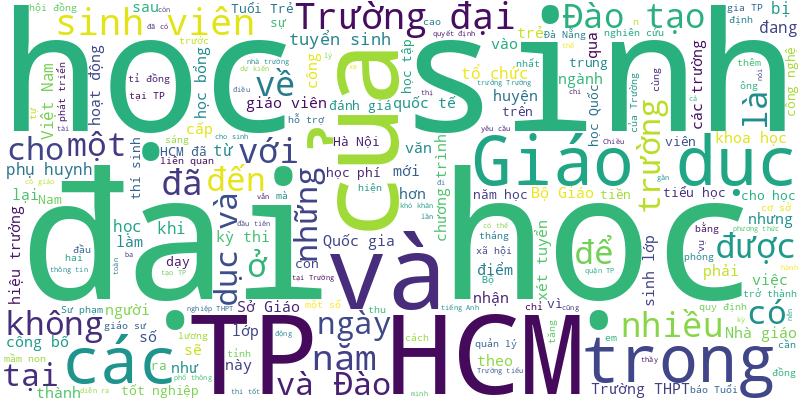
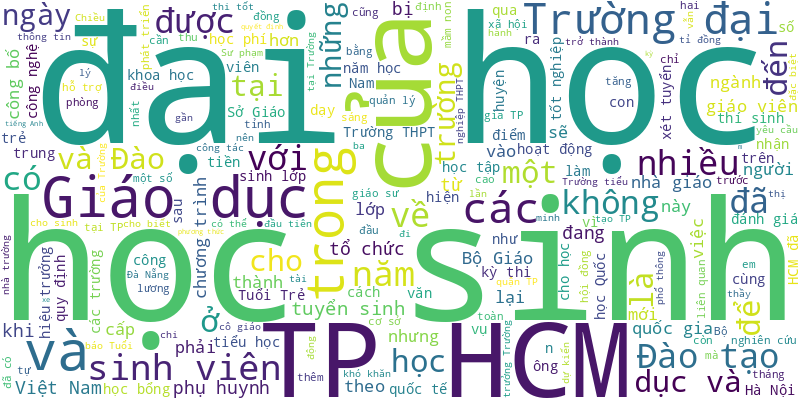
🍀 = 70%

diff --git a/README.md b/README.md
@@ -1,6 +1,24 @@
 # Tuoi Tre RSS 
 
 ## Giáo dục 
+- Hoàn thiện bản thân cùng LG Campus Ambassador 2024
+- Ngày 7-2, UBND TP.HCM có văn bản chỉ đạo về việc thực hiện dạy thêm, học thêm theo quy định của Bộ Giáo dục và Đào tạo.
+- Năm 2025, Trường đại học Ngân hàng TP.HCM xét tuyển 12 tổ hợp môn và mở thêm nhiều ngành học mới.
+- Dù mức phạt "rất gắt", nhưng trước nhiều cổng trường ở TP Buôn Ma Thuột vẫn tái diễn tình trạng xe máy chở ba, không đội mũ bảo hiểm.
+- Ngay sau Tết, thí sinh trên cả nước đăng ký xét học bổng đặc biệt tại Trường đại học Công nghệ TP.HCM (HUTECH) sẽ nhận lì xì hấp dẫn trị giá 25% học phí toàn khóa học.
+- Bộ trưởng Nguyễn Kim Sơn cho hay nếu giao cho ngành giáo dục quản lý viên chức tổng thể như quân đội quản lý sẽ làm tốt việc điều chuyển giáo viên trên cả nước.
+- Thủ tướng Chính phủ vừa có công điện gửi UBND các tỉnh, thành phố và Bộ Giáo dục và Đào tạo chỉ đạo công tác tuyển sinh THCS, THPT và quản lý dạy thêm học thêm ở cấp phổ thông.
+- Năm 2025, Đại học Quốc gia TP.HCM sẽ triển khai Chương trình giáo sư thỉnh giảng, với mục tiêu bổ nhiệm 100 giáo sư thỉnh giảng trong giai đoạn 2025-2030.
+- Trưởng Ban Công tác đại biểu Nguyễn Thanh Hải đề nghị bổ sung quy định dù phụ huynh tự nguyện cho con học thêm, nhà giáo cũng không được thu tiền.
+- Thông tư về dạy thêm, học thêm của Bộ GD-ĐT có hiệu lực từ 14-2-2025 đang tiếp tục gây nhiều ý kiến trái chiều.
+- Ông Nguyễn Đắc Vinh cho biết dự Luật Nhà giáo mới nhất chỉnh lý theo hướng bỏ quy định cụ thể về tăng 1 bậc lương với giáo viên khi xếp lương lần đầu.
+- Sau Tết, Bạc Liêu có khoảng 3.000 học sinh chưa trở lại trường. Lãnh đạo Sở Giáo dục và Đào tạo tỉnh Bạc Liêu nói gì?
+- Từ sau Tết Nguyên đán Ất Tỵ, 154 học sinh Trường tiểu học số 1 Quảng Phúc (thị xã Ba Đồn, tỉnh Quảng Bình) không đến trường học vì phụ huynh phản đối việc chuyển từ điểm trường lẻ về học tại điểm trường chính.
+- Ban đại diện Cộng đồng cựu sinh viên Phú Thọ - Bách khoa tiếp tục triển khai chương trình bảo lãnh vay và hỗ trợ lãi suất dành cho sinh viên đóng học phí.
+- Sáng 6-2, Sở Giáo dục và Đào tạo TP.HCM đã có văn bản về việc tuyển sinh lớp 6 năm học 2025-2026.
+- Dưới đây là các quy định mới có hiệu lực từ ngày 14-2 liên quan đến dạy thêm học thêm, tuyển sinh, kinh doanh bảo hiểm...
+- Sở Giáo dục và Đào tạo TP.HCM vừa có văn bản công bố thời gian thi tuyển sinh lớp 10 năm học 2025-2026 là ngày 6 và 7-6.
+- Đi học lại sau Tết không phải lúc nào cũng dễ dàng đối với phần đông học sinh. Do vậy, các trường học tại TP.HCM tùy vào lứa tuổi đã có những biện pháp khác nhau để kéo học sinh trở lại với việc học.
 - UBND tỉnh Lâm Đồng cho biết đã chỉ đạo hỏa tốc xử lý thưởng cho giáo viên theo nghị định 73 trước ngày 7-2.
 - Những ngày qua, Tuổi Trẻ đón nhận nhiều chia sẻ góc nhìn về tiền lì xì của trẻ. Trò chuyện về vấn đề này, thạc sĩ tâm lý Võ Hồng Tâm cho rằng tiền lì xì không chỉ là món quà ngày Tết, mà còn là cơ hội để dạy trẻ những bài học quý giá.
 - Các đợt thi đánh giá năng lực của Đại học Quốc gia Hà Nội năm 2025 sẽ diễn ra từ ngày 15-3 đến 18-5, thí sinh bắt đầu đăng ký ca thi từ ngày 23-2.
@@ -983,26 +1001,109 @@
 - Câu chuyện trường học không có quỹ lớp tạo hiệu ứng tốt, đa phần ý kiến cho rằng cần nhân rộng mô hình này ra các ngôi trường khác trong cả nước.
 - Sáng nay 7-10, Trường phổ thông đặc biệt Nguyễn Đình Chiểu (quận 10, TP.HCM) tổ chức chia sẻ chuyên đề về phòng ngừa xâm hại tình dục cho học sinh khiếm thị.
 - Cục Quản lý chất lượng - Bộ Giáo dục và Đào tạo cho biết việc công nhận văn bằng chương trình liên kết đào tạo nước ngoài đang gặp nhiều khó khăn.
-- UBND TP.HCM vừa ban hành bộ tiêu chuẩn công nhận trường học số.
-- Trong bốn năm trở lại đây, Đại học Quốc gia TP.HCM chưa khởi công thêm công trình nào và đã phải hoàn trả ngân sách nhà nước gần 2.000 tỉ đồng.
-- Bộ chứng chỉ PEIC là chuẩn năng lực tiếng Anh quốc tế bao gồm 4 kỹ năng (Nghe - Nói - Đọc - Viết) dành cho học sinh, sinh viên và người đi làm.
-- Nhiều người chán họp phụ huynh. Một phần vì chuyện tiền bạc, phần vì ban đại diện đại diện cha mẹ học sinh dường như không phải là đại diện cho phụ huynh lớp!
-- Đại học Quốc gia TP.HCM sẽ giảm bớt các phương thức tuyển sinh đại học năm 2025 xuống còn 3. Đồng thời khuyến khích các trường xây dựng phương thức xét tuyển kết hợp.
-- Kỷ nguyên trí tuệ mang lại nhiều cơ hội cho Việt Nam nhưng cũng cần phải thừa nhận những thách thức mà thời đại này đặt ra đối với xã hội.
-- Huyện ủy Hướng Hóa (Quảng Trị) nói không được bổ nhiệm lại nhiệm kỳ 3 vì sai quy định, nhưng ủy ban huyện vẫn ký bổ nhiệm lại.
-- Dự thảo thông tư sửa đổi, bổ sung quy chế tuyển sinh THCS và tuyển sinh THPT của Bộ GD-ĐT đang khiến dư luận xôn xao.
-- Hiệu trưởng Trường tiểu học Sơn Thành bị phụ huynh tố cáo, được chuyển công tác đến trường khác và tiếp tục làm hiệu trưởng. Những vấn đề phụ huynh tố cáo, thanh tra huyện Sơn Hà sẽ tiếp tục làm rõ.
-- Cứ vào giờ cao điểm, trước cổng một số trường học tại Đà Nẵng xảy ra tình trạng kẹt xe, giao thông lộn xộn. Nhiều phụ huynh, học sinh phải len lỏi giữa dòng xe đông đúc, tiềm ẩn nguy cơ tai nạn giao thông.
-- Dự án HCMUS Future Leaders của Trường đại học Khoa học tự nhiên (Đại học Quốc gia TP.HCM) vừa chính thức khởi động với sự tham gia 70 cựu sinh viên, chuyên gia xây dựng môn học về kỹ năng mềm cho sinh viên.
-- Tổng giá trị học bổng hơn 392 triệu đồng, trích từ nguồn quỹ Đồng hành sinh viên của trường.
-- Số lượng thí sinh đăng ký xét tuyển vào Trường đại học Y Dược TP.HCM tăng trong 3 năm liên tiếp, dù học phí của trường luôn tăng.
-- Không thể có trường học hạnh phúc, học trò ngoan nếu gia đình nhà trường bỏ ngỏ, thiếu chăm lo những giá trị đạo đức, văn hóa.
-- Sáng nay 5-10, báo Tuổi Trẻ và Trường đại học Hoa Sen đã ký kết hợp tác đào tạo. Việc ký kết thỏa thuận hợp tác đào tạo diễn ra tại lễ khai giảng năm học 2024 - 2025 của Trường đại học Hoa Sen.
-- Tận dụng nguồn nguyên liệu dồi dào trong tự nhiên, nhóm sinh viên Trường đại học Trà Vinh đã nghiên cứu làm ra băng gạc sinh học từ lục bình.
-- Khai giảng năm học 2024-2025, Trường đại học Cửu Long nhận bằng khen của Thủ tướng, dành hơn 9 tỉ đồng cấp học bổng toàn phần, khen thưởng cho tân sinh viên.
-- Ngày 4-10, diễn đàn “Giáo dục về năng lượng tái tạo và biến đổi khí hậu” diễn ra tại Trường Victoria School, nhằm mang đến nhiều góc nhìn trong việc giáo dục thế hệ trẻ các vấn đề khí hậu, môi trường.
 ![Edu](Edu.png)
 ## Thời Sự 
+- Dự báo từ khoảng cuối tháng 2, hiện tượng nồm ẩm sẽ xuất hiện ở miền Bắc và kéo dài tới tháng 4.
+- Hiện khu xử lý rác Đa Phước bị quá tải nên chỉ trục trặc nhỏ cũng khiến việc tiếp nhận rác bị rối loạn.
+- Hệ thống Bệnh viện Đa khoa Tâm Anh đưa vào sử dụng máy chụp CT Somatom Force VB30 tích hợp AI, được đánh giá là cuộc cách mạng mới trong chẩn đoán, phát hiện rất sớm và hỗ trợ tốt điều trị nhiều bệnh lý nguy hiểm.
+- Liên quan đến vụ xe khách bị lật khiến 3 người chết, những hành khách trên xe vẫn chưa hết hãi hùng nhớ lại khoảnh khắc xảy ra vụ tai nạn.
+- Thêm 18,8km cao tốc Bến Lức - Long Thành sắp thông xe, rút ngắn thời gian đi từ cửa ngõ phía tây về khu Nam và trung tâm TP.HCM.
+- Xe tải đang chạy trên cao tốc Phan Thiết - Dầu Giây thì tông vào đuôi xe tải bị nổ lốp đậu sát dải phân cách.
+- Lúc 1h sáng 8-2, trên quốc lộ 1 qua xã Xuân Thịnh, thị xã Sông Cầu (tỉnh Phú Yên) xảy ra vụ lật xe khách khiến 3 người chết tại chỗ, nhiều người bị thương.
+- Tin tức đáng chú ý: Đề xuất chế độ nghỉ hưu ở tuổi cao hơn đối với nhà giáo; Cổ phiếu của đại gia thép SMC có khả năng bị hủy niêm yết; TP.HCM lên phương án chống cháy rừng mùa khô...
+- Hôm nay 8-2, do ảnh hưởng không khí lạnh nên thời tiết miền Trung mưa to, miền Nam nắng nhưng nhiều mây.
+- Ngoài việc có thể đọ kết quả kinh doanh của Vietnam Airlines với Vietjet Air, báo cáo tài chính quý 4-2024 vừa công bố của hai hãng hàng không hàng đầu Việt Nam cũng tiết lộ thu nhập lãnh đạo hai bên.
+- Lễ hội hoa đào xứ Lạng 2025 - lễ hội hoa đào duy nhất trên cả nước - vừa khai mạc tại tỉnh Lạng Sơn. Nhiều du khách, bạn trẻ tranh thủ tận hưởng tiết trời lạnh để diện những bộ cánh ấm áp và check-in cùng hoa đào.
+- Hai phó trưởng Ban Dân vận Tỉnh ủy Bình Định, ông Nguyễn Mạnh Hùng và Đặng Hoài Tân, vừa nộp đơn xin nghỉ hưu trước tuổi.
+- Đó là nhấn mạnh của Phó thủ tướng Hồ Đức Phớc khi chủ trì cuộc họp sắp xếp cơ cấu tổ chức, bộ máy của Bộ Tài chính và Bộ Kế hoạch và Đầu tư.
+- Ngày 7-2, Tổng Bí thư Tô Lâm dự hội nghị bàn giao công tác của Chủ nhiệm Ủy ban Kiểm tra Trung ương khóa XIII.
+- Chiều 7-2, Ban Thường vụ Tỉnh ủy Bình Định tổ chức hội nghị công bố các quyết định của Tỉnh ủy về thành lập Đảng bộ các cơ quan Đảng tỉnh và Đảng bộ UBND tỉnh; chấm dứt hoạt động các đảng đoàn, ban cán sự đảng, một số ban chỉ đạo của tỉnh.
+- Đồng Nai vừa cấp giấy chứng nhận đầu tư cho nhiều doanh nghiệp FDI đầu tư mới ở các lĩnh vực y tế, điện, mỹ phẩm.
+- 5 trưởng phòng nghiệp vụ và 1 phó Phòng tham mưu Công an tỉnh Hải Dương nghỉ hưu trước tuổi để tạo điều kiện thuận lợi cho công tác tổ chức cán bộ, góp phần triển khai hiệu quả việc sắp xếp tinh gọn bộ máy.
+- Phó bí thư Tỉnh ủy, Chủ tịch UBND tỉnh Lào Cai Trịnh Xuân Trường được bầu giữ chức Bí thư Tỉnh ủy Lào Cai, nhiệm kỳ 2020-2025.
+- Đề cập dự án Bệnh viện Ung bướu Cần Thơ xây mấy năm không xong, Chủ tịch Quốc hội đề nghị Bộ Kế hoạch và Đầu tư tập trung cao để giải quyết.
+- Nhiều tài xế phản ánh về việc khe co giãn trên cao tốc quốc lộ 45 - Nghi Sơn đoạn qua huyện Nông Cống, tỉnh Thanh Hóa bị bật, bung lên khỏi mặt đường.
+- Theo nghị quyết vừa được Ủy ban Thường vụ Quốc hội thông qua, tổ chức bộ máy của Viện Kiểm sát nhân dân tối cao gồm 24 đơn vị.
+- Loạt dự án trên bán đảo Sơn Trà (Đà Nẵng) nằm im suốt nhiều năm sau kết luận thanh tra. Việc xử lý các dự án này như thế nào là vấn đề mà rất nhiều người quan tâm?
+- Liên tiếp xảy ra các vụ tai nạn đường sắt nghiêm trọng không chỉ gây thương vong đáng tiếc, mà còn đặt ra nhiều câu hỏi về an toàn đường sắt.
+- Được kỳ vọng sẽ vực dậy vùng đất 'khô - khó - khổ' phía Bắc tỉnh Bình Thuận, nhưng hơn 10 năm qua Khu công nghiệp Tuy Phong vẫn chưa xong hạ tầng.
+- Khánh Hòa công bố quyết định kết thúc hoạt động hàng loạt cơ quan đảng trực thuộc và thành lập 2 đảng bộ mới.
+- Nhân viên pha chế của một nhà hàng ở Hội An, Quảng Nam đã dùng cồn y tế pha với nước lọc, vỏ chanh, đường tạo thành rượu giao cho hai du khách nước ngoài uống và bị ngộ độc methanol tử vong.
+- Sau gần 5 tháng tạm ngưng, siêu tàu cao tốc tuyến Vũng Tàu - Côn Đảo đã hoạt động trở lại.
+- Thành ủy Đà Nẵng vừa công bố các quyết định về nhân sự khi thành lập hai Đảng bộ mới và thông báo về chủ trương đổi vị trí một số nhân sự chủ chốt.
+- Sở Y tế TP.HCM khuyến cáo người dân không nên hoang mang, lo lắng trước dịch bệnh cúm mùa, nhưng không lơ là, chủ quan.
+- Bộ Giao thông vận tải điều chỉnh dự án cao tốc Đà Nẵng - Quảng Ngãi theo thẩm quyền và trình Thủ tướng giao Đà Nẵng đầu tư nút giao Túy Loan.
+- Phấn đấu đến dịp 30-4 sẽ đưa vào khai thác thêm tổng cộng 32,9km đoạn phía đông và tây cao tốc Bến Lức - Long Thành.
+- Đối với xe vi phạm giao thông mà người cầm lái hoặc chủ xe chưa giải quyết, nộp phạt thì sẽ không được đăng kiểm, đăng ký.
+- Ngày 7-2, Bộ đội biên phòng tỉnh Tây Ninh cho biết vừa phối hợp với Công an tỉnh hoàn tất tiếp nhận, xác minh thông tin 177 người Việt Nam được trao trả từ Campuchia. Nhóm người này liên quan đến  lao động và cư trú bất hợp pháp.
+- Liên quan vấn đề tội phạm trên không gian mạng, thượng tướng Trần Quốc Tỏ nhấn mạnh đây là vấn đề nan giải, mang tính chất toàn cầu.
+- Ra đồng cùng mẹ, hai chị em uống lọ dung dịch thuốc diệt chuột màu đỏ, nhầm tưởng là nước ngọt. Sau sự cố, người em trai 4 tuổi tử vong.
+- Bà Nguyễn Thị Nguyệt Hòa (mưu sinh bằng việc bán vé số dạo) chia sẻ: 'Vừa bán hết 200 tờ, tôi đi mua cá nướng về cúng vía Thần Tài’.
+- Khi thu mua gỗ keo và bán lại cho công ty, một người ở Quảng Nam đã trốn thuế hơn 20 tỉ đồng.
+- Tại Vườn quốc gia Núi Chúa (Ninh Thuận), các nhà nghiên cứu đã phát hiện nhiều loài động vật cực quý hiếm như gà tiền mặt đỏ, gà lôi hông tía...
+- Ngày 7-2, lãnh đạo Sở Giao thông vận tải tỉnh Kiên Giang cho biết đơn vị đang khẩn trương xây dựng kế hoạch để thực hiện dự án đường trục chính ven biển vào trung tâm TP Hà Tiên hơn 1.400 tỉ đồng.
+- Xe tải tự tông vào dải phân cách, phụ xe chết tại chỗ, quốc lộ 1 ùn tắc nghiêm trọng tại huyện Cam Lâm (Khánh Hòa).
+- Bộ trưởng Nguyễn Kim Sơn cho hay nếu giao cho ngành giáo dục quản lý viên chức tổng thể như quân đội quản lý sẽ làm tốt việc điều chuyển giáo viên trên cả nước.
+- Tai nạn giữa xe đầu kéo và xe máy trên đường ray ở Đồng Nai khiến một người chết, tàu hỏa Bắc - Nam bị gián đoạn gần một giờ.
+- Một bệnh nhân tiểu đường bị ngộ độc sau khi uống thuốc có chứa chất cấm phenformin.
+- Tài xế xe đầu kéo không giảm tốc độ dù đường cong cua và trơn trượt, khi phanh gấp đã làm thùng xe bị văng, rê sang phần đường của xe ưu tiên.
+- Năm 2025, Đại học Quốc gia TP.HCM sẽ triển khai Chương trình giáo sư thỉnh giảng, với mục tiêu bổ nhiệm 100 giáo sư thỉnh giảng trong giai đoạn 2025-2030.
+- Giám đốc Sở Nông nghiệp và Phát triển nông thôn tỉnh Kiên Giang ký thông báo về việc vận hành cống, âu thuyền Vàm Bà Lịch để chống xâm nhập mặn tháng 2.
+- Ban tổ chức lễ hội kỷ niệm 289 năm thành lập Tao đàn Chiêu Anh Các (1736 - 2025) đã tổ chức dâng hương đền thờ họ Mạc và làm lễ tế trời đất tại nền Sơn Xuyên ở TP Hà Tiên để cầu quốc thái dân an, mưa thuận gió hòa, nhà nhà ấm no.
+- Sáng 7-2, không khí lạnh mạnh tăng cường đang bao phủ các tỉnh miền Bắc. Trời mưa nhỏ kèm theo gió rét. Nhiệt độ nhiều nơi hạ xuống dưới 15 độ C và tiếp tục hạ thấp hơn trong ngày và đêm nay.
+- Trưởng Ban Công tác đại biểu Nguyễn Thanh Hải đề nghị bổ sung quy định dù phụ huynh tự nguyện cho con học thêm, nhà giáo cũng không được thu tiền.
+- Vụ cháy đã làm hư hỏng một phần nhà kho, nhiều đồ đạc trong nhà như tivi, quạt gió, một xe máy và nhiều máy móc khác bị thiệt hại nặng.
+- Ông Nguyễn Đức Dũng và Lê Văn Dũng được chỉ định lần lượt giữ chức vụ bí thư Đảng ủy các cơ quan Đảng tỉnh và bí thư Đảng ủy UBND tỉnh Quảng Nam.
+- Ông Lê Trung Chinh làm bí thư Đảng bộ UBND TP Đà Nẵng. Ông Nguyễn Đình Vĩnh làm bí thư Đảng bộ các cơ quan Đảng TP Đà Nẵng. Đây là 2 Đảng bộ mới vừa được thành lập ở Đà Nẵng.
+- Ông Nguyễn Đắc Vinh cho biết dự Luật Nhà giáo mới nhất chỉnh lý theo hướng bỏ quy định cụ thể về tăng 1 bậc lương với giáo viên khi xếp lương lần đầu.
+- Huyện Vĩnh Linh (Quảng Trị) cam kết cấp mặt bằng sạch cho doanh nghiệp để xây dựng lại nhà máy nhưng 4 tháng chưa thực hiện.
+- Khu vực Tây Nguyên sẽ được khai phá bởi các tuyến cao tốc cùng loạt dự án kết nối vùng Đông Nam Bộ giúp rút ngắn thời gian đi lại, mở rộng cửa giao thương.
+- Ông Nguyễn Anh Tuấn - tỉnh ủy viên, trưởng Ban Dân vận Tỉnh ủy Khánh Hòa - xin thôi công tác, nghỉ hưu trước tuổi quy định.
+- Muốn làm giàu thì mở rộng giao thương, thu hút đầu tư bằng cơ sở hạ tầng giao thông thuận lợi trong đi lại, luân chuyển hàng hóa.
+- Một số tin tức đáng chú ý: Đề xuất tăng hỗ trợ cho người tham gia bảo hiểm xã hội; Hàng loạt quỹ cổ phiếu rút bớt tiền mặt; 58.300 doanh nghiệp rút khỏi thị trường đầu năm; Không tổ chức lễ hội tràn lan gây tốn kém, lãng phí thời gian, tiền bạc...
+- Khi các đoạn cao tốc Phan Thiết - Dầu Giây, Vĩnh Hảo - Phan Thiết đưa vào khai thác giữa năm 2023, tài xế từ TP.HCM đến với Đà Lạt có thêm nhiều lựa chọn cho chuyến hành trình của mình.
+- Không khí lạnh rất mạnh từ hôm nay sẽ ảnh hưởng và chi phối Bắc Bộ và Trung Bộ. Nam Bộ thời tiết chưa có quá nhiều biến động.
+- Phát hiện một sản phụ vỡ ối trên xe khách, CSGT Đắk Lắk dùng xe chuyên dụng chở người này đến bệnh viện an toàn.
+- Xe khách chạy nhanh lấn sang làn cao tốc ngược chiều để vượt ô tô khác khiến xe đi chiều ngược lại phải đánh lái gấp để tránh.
+- Ông Nguyễn Tấn Đức, phó chủ tịch HĐND tỉnh, và hai giám đốc sở ở Quảng Ngãi có đơn xin nghỉ hưu trước tuổi và được chấp thuận.
+- Thủ tướng đã bấm nút khai trương thí điểm Hệ thống điều phối dữ liệu ngành y tế nhằm cải thiện chất lượng chăm sóc sức khỏe, nghiên cứu khoa học.
+- Sau Tết, Bạc Liêu có khoảng 3.000 học sinh chưa trở lại trường. Lãnh đạo Sở Giáo dục và Đào tạo tỉnh Bạc Liêu nói gì?
+- Ban Quản lý dự án đầu tư xây dựng các công trình giao thông vừa trình UBND TP.HCM đề xuất dự án Cải thiện môi trường nước TP.HCM giai đoạn 3 lưu vực Tàu Hủ - Bến Nghé - Đôi - Tẻ.
+- Theo nghị quyết mới được Ủy ban Thường vụ Quốc hội thông qua, tổng số lượng thẩm phán của tòa án nhân dân các cấp là 7.004 người.
+- Chủ tịch UBND TP.HCM Phan Văn Mãi cảm ơn các cơ quan báo chí Trung ương và địa phương, đặc biệt ông cảm ơn đội ngũ phóng viên đã đồng hành cùng TP.HCM trong những năm qua.
+- 11 tác phẩm xuất sắc đã đạt giải thưởng báo chí viết về chuyển đổi số TP.HCM lần 1 - 2024 do Sở Thông tin - Truyền thông và Hội Nhà báo TP.HCM tổ chức.
+- Chiều 6-2, Chủ tịch UBND TP.HCM Phan Văn Mãi, đại diện cơ quan ban ngành, các nhà báo đã đến thăm và làm việc tại tòa soạn báo Tuổi Trẻ nhân dịp đầu năm mới.
+- Theo kết luận về kiểm tra, Sở Tài nguyên và Môi trường Khánh Hòa, Chi cục Quản lý đất đai tỉnh đã thiếu trách nhiệm quản lý, kiểm tra việc sử dụng đất của Liên đoàn Thương mại và Công nghiệp Việt Nam (VCCI) tại Khánh Hòa.
+- Lãnh đạo Công an tỉnh Đắk Lắk cho biết báo cáo ban đầu vụ cháy xưởng điện lạnh cạnh quốc lộ 14 có thể do chập điện, rất may không có thiệt hại về người.
+- Từ kháng nghị của Viện Kiểm sát nhân dân TP.HCM về việc Cục Thi hành án dân sự TP.HCM thu giữ hơn 78 tỉ đồng trái bản án, quy định trong vụ án Công ty Cho thuê tài chính II, cục này đã báo cáo xin ý kiến cơ quan cấp trên.
+- Xưởng điện lạnh trên đường vành đai phía tây TP Buôn Ma Thuột (quốc lộ 14) cháy, khiến hàng ngàn mét vuông các nhà xưởng bên cạnh bị cháy lan.
+- Theo ông Hoàng Thanh Tùng, dự kiến sau khi thực hiện sắp xếp bộ máy, số lượng các cơ quan của Quốc hội gồm Hội đồng Dân tộc và 7 ủy ban.
+- Cần Thơ và Bạc Liêu cùng công bố thành lập Ban Tuyên giáo và Dân vận. Đồng thời các địa phương này cũng công bố thành lập mới nhiều tổ chức Đảng.
+- Công an tỉnh Kiên Giang phối hợp với lực lượng biên phòng tiếp nhận 24 công dân Việt Nam bị mắc bẫy 'việc nhẹ, lương cao' do phía Campuchia trao trả về nước, qua đường cửa khẩu quốc tế Hà Tiên.
+- Thông tin do thượng tá Lê Văn Hải, phó Phòng cảnh sát giao thông PC08 Công an TP.HCM, nêu tại họp báo định kỳ về tình hình kinh tế - xã hội, diễn ra chiều 6-2 tại báo Tuổi Trẻ.
+- Chiều 6-2, trung tá Phan Đình Điểm - đội trưởng Đội cảnh sát giao thông đường bộ tuyến quốc lộ 19, Công an tỉnh Bình Định - cho biết một xe đầu kéo đang đổ đèo An Khê thì đột nhiên bốc cháy giữa đường.
+- Trong vòng 3 ngày (ngày 3 đến 5-2), lực lượng Bộ đội biên phòng Kiên Giang đã phát hiện 3 tàu cá chở tổng cộng khoảng 64.000 lít dầu DO không rõ nguồn gốc trên vùng biển tây nam Tổ quốc.
+- Chập điện đã làm cháy và nổ bình gas của căn nhà người dân ở huyện Thới Bình, tỉnh Cà Mau. Vụ cháy đã thiêu rụi hơn 300 triệu đồng tiền mặt, cùng căn nhà và nhiều vật dụng của đôi vợ chồng làm nghề thu mua tôm.
+- Nêu rõ ý nghĩa quan trọng của việc đạt mục tiêu tăng trưởng 8% trở lên trong năm 2025, Thủ tướng Phạm Minh Chính nhấn mạnh phải ưu tiên tập trung tháo gỡ các điểm nghẽn.
+- Từ sau Tết Nguyên đán Ất Tỵ, 154 học sinh Trường tiểu học số 1 Quảng Phúc (thị xã Ba Đồn, tỉnh Quảng Bình) không đến trường học vì phụ huynh phản đối việc chuyển từ điểm trường lẻ về học tại điểm trường chính.
+- Một người đàn ông đăng thông tin thất thiệt "sắp có bạo loạn" Cư Kuin (Đắk Lắk) đã bị xử phạt hành chính 7,5 triệu đồng.
+- Sáng 6-2, Chủ tịch HĐND TP Hà Nội Nguyễn Ngọc Tuấn đã thăm, chúc Tết và động viên cán bộ, công nhân tại công trường thi công Dự án đầu tư xây dựng đường vành đai 4 - vùng thủ đô Hà Nội tại huyện Thường Tín.
+- Chiều 5-2, đoàn kiểm tra liên ngành do UBND TP Nha Trang (Khánh Hòa) thành lập đã kiểm tra quán ăn Aroma Beach (đường Nguyễn Thiện Thuật, phường Tân Tiến, TP Nha Trang) sau khi có thông tin tố quán này "chặt chém" du khách.
+- So với cùng kỳ năm 2024, số vụ tai nạn trong 1 tháng qua giảm 26,29%, giảm 1,72% số người chết và giảm 37,71% nạn nhân bị thương.
+- Dự báo mùa khô 2025 nắng nóng kéo dài, hanh khô. Qua khảo sát thực tế và ghi nhận có hơn 40.000ha rừng có nguy cơ cháy cao nên Kiên Giang chủ động nhiều giải pháp ứng phó phòng cháy, bảo vệ rừng.
+- Thanh tra Sở Y tế TP.HCM vừa công bố quyết định xử phạt, trong đó có hai cơ sở tư vấn lựa chọn giới tính thai nhi do báo Tuổi Trẻ phản ánh trước đó.
+- Trước việc đất trống thuộc sở hữu nhà nước bị chiếm dụng, TP Đà Nẵng đã yêu cầu rà soát, thu hồi và bàn giao về Trung tâm Phát triển quỹ đất Đà Nẵng để lên kế hoạch khai thác.
+- Tòa án đã bác nhiều đơn khiếu nại xin giảm thời gian cai nghiện bắt buộc.
+- Trưởng Ban Tuyên giáo Tỉnh ủy Quảng Ngãi xin nghỉ hưu trước tuổi để tạo điều kiện thuận lợi nhất cho việc sắp xếp bộ máy, nhân sự của tỉnh.
+- Chuyển khoản liên tục 7 lần, từ số tiền đặt phòng ban đầu hơn 6,5 triệu đồng, chị H. đã bị lừa hơn 1 tỉ đồng khi đặt phòng qua fanpage tích xanh.
+- Đảng ủy Chính phủ đề nghị Đảng ủy Quốc hội chỉ đạo bổ sung một số nội dung quan trọng, cấp bách vào chương trình kỳ họp bất thường thứ 9 của Quốc hội.
+- Cục Đầu tư nước ngoài cho biết tổng vốn đăng ký đầu tư nước ngoài (FDI) tháng 1 năm nay tăng mạnh, trong đó Bắc Ninh dẫn đầu cả nước về thu hút đầu tư FDI, với số vốn đăng ký đạt gần 1,4 tỉ USD.
+- Chủ tịch UBND TP.HCM Phan Văn Mãi đã kêu gọi các nhà đầu tư mạnh dạn đầu tư vào thành phố Thủ Đức, giúp địa phương trở thành cực tăng trưởng mới, trung tâm tài chính quốc tế.
+- Sáng 6-2 (mùng 9 tháng giêng), Chủ tịch nước Lương Cường đã chủ trì lễ dâng hương khai xuân Ất Tỵ 2025 tại Điện Kính Thiên - khu di tích Hoàng thành Thăng Long, Hà Nội.
+- Chuyên gia cho rằng mức lương hưu bình quân ở nước ta không hề thấp và cần có giải pháp để duy trì quỹ hưu trí lâu dài.
+- Ban Cán sự Đảng UBND TP Hà Nội đã có tờ trình số 17 gửi Thường trực Thành ủy Hà Nội về việc xin chủ trương điều chỉnh phương án sắp xếp tổ chức bộ máy các sở thuộc khối chính quyền TP.
+- Trả lời về việc xây dựng đường chữ U "khó hiểu" ở TP Gia Nghĩa, lãnh đạo Sở Giao thông vận tải tỉnh Đắk Nông nói phải bám sát quy hoạch đô thị thời kỳ đó.
+- Hôm nay (6-2), Hội nghị công bố quy hoạch chung TP Thủ Đức đến năm 2040 và xúc tiến mời gọi đầu tư sẽ diễn ra.
 - Nhiều trường hợp vi phạm giao thông cố tình giấu giấy phép lái xe để né tránh việc trừ điểm hoặc tước bằng. Cảnh sát giao thông Hà Nội cho biết đây là suy nghĩ sai lầm khiến người vi phạm có thể bị phạt nặng hơn.
 - Ủy ban Kiểm tra Tỉnh ủy Khánh Hòa vừa kết luận kiểm tra dấu hiệu vi phạm với 5 cán bộ, đảng viên liên quan việc thu hồi đất dự án ở TP Nha Trang.
 - Dù tình hình đi lại ở cửa ngõ phía Tây TP.HCM và đường về miền Tây đông đúc dịp Tết Ất Tỵ 2025, nhưng ùn tắc đã giảm hơn so với các năm trước.
@@ -1902,109 +2003,12 @@
 - Tại phiên họp của Ủy ban Pháp luật đã thẩm tra tờ trình về thành lập các phường thuộc thị xã Phú Mỹ và thành lập TP Phú Mỹ.
 - UBND tỉnh Quảng Nam ra quyết định xử phạt vi phạm hành chính với Công ty TNHH xây dựng và xây lắp HTK (trụ sở tại quận Liên Chiểu, Đà Nẵng).
 - Phó giám đốc Ban quản lý các dự án đầu tư xây dựng tỉnh Đắk Nông bị cách mọi chức vụ trong Đảng, cho thôi việc vì sử dụng bằng giả.
-- Thực hiện lộ trình chuyển đổi từ xe buýt chạy dầu diesel sang xe buýt xanh, Hà Nội sẽ khai trương 3 tuyến buýt điện vào ngày 17-1.
-- Vào dịp cao điểm, mỗi ngày sẽ có khoảng 16 đoàn tàu xuất phát từ ga Sài Gòn, chở khoảng 6.000 hành khách về quê ăn Tết.
-- Đó là quan điểm của Bộ Kế hoạch và Đầu tư trong công văn góp ý đề án nghiên cứu khả năng hình thành cảng hàng không Gia Bình.
-- Phó chủ tịch UBND thị xã An Nhơn (Bình Định) cho biết công an đang xác minh vụ 310 chậu hoa cúc Tết của người dân bị héo úa, chết bất thường.
-- Công an TP Thủy Nguyên (Hải Phòng) đang điều tra tin báo về cháu bé bị một phụ nữ đưa đi khỏi trường mầm non gây xôn xao dư luận.
-- Chiều 14-1, lễ đón chính thức Thủ tướng Nga Mikhail Vladimirovich Mishustin đã diễn ra tại Phủ Chủ tịch.
-- Các phóng viên luôn là những người đến sớm nhất và kết thúc công việc muộn nhất, theo Phó thủ tướng, Bộ trưởng Bộ Ngoại giao Bùi Thanh Sơn.
-- Thủ tướng nhận định như vậy tại Hội nghị lần thứ 5 Hội đồng điều phối vùng Đồng bằng sông Hồng và công bố Quy hoạch thủ đô Hà Nội.
-- Ông Nguyễn Mạnh Hùng, ủy viên Ủy ban Kiểm tra Trung ương, giữ chức phó bí thư Tỉnh ủy Thái Bình.
-- Sau 6 tháng thi công, 250m kênh Hàng Bàng đoạn qua quận 5 (TP.HCM) đang hoàn tất những công đoạn cuối để khánh thành vào ngày 17-1.
-- Từ một cậu bé sinh ra trong gia đình nghèo khó, mẹ phải bán trâu để mua giày, cầu thủ Phạm Xuân Mạnh vươn lên trở thành ngôi sao sáng.
-- Hỗ trợ cho các xe quá tải tiếp tục lưu thông vận chuyển hàng hóa theo đề xuất của công ty, không được chạy vào các khung giờ cao điểm.
-- Trong bối cảnh nghị định 168 áp dụng với nhiều quy định xử phạt nghiêm khắc, giải pháp giảm nhiệt giao thông đang được dư luận quan tâm.
-- Những ngày giáp Tết, người dân cần cảnh giác trước những thủ đoạn lừa đảo phổ biến.
-- Sau khi trình lên Văn phòng Chính phủ 1 tuần, văn phòng lại gửi văn bản xuống 3 bộ để xin ý kiến. Tuy nhiên 3 bộ vẫn chưa ý kiến.
-- Bộ Nội vụ đề xuất nhiều quy định mới về nhiệm vụ, quyền hạn của Chính phủ, Thủ tướng tại dự thảo Luật Tổ chức Chính phủ sửa đổi.
-- Sáng 14-1, Thành ủy TP.HCM tổ chức hội nghị biểu dương bí thư chi bộ khu phố, ấp tiêu biểu cấp TP năm 2025.
-- Ông Hồ Văn Hà, 49 tuổi, giám đốc Sở Xây dựng, được bầu làm phó chủ tịch UBND tỉnh Đồng Nai.
-- Tổ chức bộ máy của Chính phủ khóa XV (nhiệm kỳ 2021-2026) dự kiến có 14 bộ, 3 cơ quan ngang bộ (giảm 5 bộ, cơ quan ngang bộ).
-- Hôm nay nhiệt độ ở Nam Bộ tăng 1-3 độ C so với hôm qua, trời ấm nóng lên, ngoài ra ngày mai sẽ có mưa trái mùa một vài nơi.
-- Điểm mới của quy định không được lái xe quá 48 giờ/tuần là điều khó khăn nhất đối với cả doanh nghiệp và tài xế.
-- TP.HCM những ngày đầu năm kẹt xe chưa từng có, chịu ảnh hưởng nặng nhất vẫn là các bác tài chạy xe công nghệ và tài xế taxi.
-- Một số tin tức đáng chú ý: Giá USD vượt đỉnh, tỉ giá lại tăng nóng; Một công ty chứng khoán đóng cửa văn phòng đại diện ở TP.HCM; Ca mắc HIV mới chủ yếu ở nhóm nam quan hệ tình dục đồng giới...
-- Hôm nay 14-1, lại có thêm đợt không khí lạnh tăng cường về nước ta khiến nhiều nơi ở phía Bắc rét đậm, rét hại. Miền Trung từ tối nay mưa to.
-- Tối 13-1, Thủ tướng Phạm Minh Chính và Phu nhân chủ trì tiệc chiêu đãi ngoại giao đoàn tại Hà Nội. Nhân dịp này, ông đã gửi thông điệp hòa bình, hữu nghị đến các nhà ngoại giao nước ngoài.
-- Gặp các cơ quan đại diện nước ngoài nhân dịp đầu năm và chúc Tết Ất Tỵ, lãnh đạo TP.HCM đã chia sẻ những thành tựu của thành phố và kỳ vọng cho năm tới.
-- Giai đoạn đầu khai thác tạm hai đoạn cao tốc Bến Lức - Long Thành, chủ đầu tư chưa thu phí sử dụng đường bộ.
-- Thủ tướng Chính phủ yêu cầu các bộ ngành, địa phương khẩn trương khắc phục hậu quả 2 vụ tai nạn giao thông ở Hà Nội và Nghệ An làm 9 người chết.
-- Công an tỉnh Khánh Hòa và Sở Giao thông vận tải đều đề xuất tỉnh cho bàn giao quyền vận hành, điều chỉnh chu kỳ đèn tín hiệu giao thông trên địa bàn tỉnh cho lực lượng cảnh sát giao thông.
-- Trại heo bị chập điện cháy lớn làm chết 1.600 con heo thịt và hư hỏng nhiều trang thiết bị, gây thiệt hại gần 6,5 tỉ đồng.
-- Khu vực gần 100 héc ta được tỉnh Đồng Nai quy hoạch xây dựng Trung tâm nghiên cứu khoa học công nghệ hạt nhân nằm ở TP Long Khánh - nơi được mệnh danh là 'Đà Lạt của miền Đông'.
-- Trong chuyến công du châu Âu lần này, Thủ tướng Phạm Minh Chính sẽ đến Ba Lan, Cộng hòa Czech và Thụy Sĩ với lịch trình dày đặc các hoạt động tại mỗi điểm đến.
-- Phần Lan mong muốn có thêm nhiều nhân sự ngành công nghệ, công nghiệp và chăm sóc sức khỏe. Nhiều người Việt đi làm ở Phần Lan có thu nhập đến 2.000 euro/tháng.
-- Đối với sắp xếp lại các đơn vị thuộc Bộ Quốc phòng, Bộ Công an, Thủ tướng yêu cầu cần tiếp tục rà soát, báo cáo cấp có thẩm quyền về sắp xếp các đơn vị, cơ quan theo kết luận, chủ trương, định hướng.
-- Đại học Huế vừa có quyết định hủy kết quả trúng tuyển cao học của bà Đào Thị Bích Thủy - một lãnh đạo Trường đại học Kinh Bắc.
-- Thực hiện việc sáp nhập địa giới hành chính, tỉnh Nghệ An hiện có 275 cơ sở dôi dư cần phải xử lý bán đấu giá, thu hồi.
-- Dù đã hoàn thành chương trình liên kết đào tạo thạc sĩ điều hành quản trị kinh doanh (EMBA) hơn 1 năm qua, nhưng đến nay học viên vẫn chưa được công nhận văn bằng tại Việt Nam.
-- Toàn bộ chương trình nghệ thuật chào mừng các ngày lễ, mừng xuân Ất Tỵ 2025 tại TP Nha Trang sẽ được truyền hình trực tiếp đến quân, dân huyện đảo Trường Sa vào tối 24 tháng chạp (23-1).
-- Đài khí tượng thủy văn khu vực Nam Bộ cho biết trong 24 giờ qua, do ảnh hưởng của gió mùa đông bắc tiếp tục tăng cường mạnh xuống phía nam, mực nước tại hầu hết các trạm vùng hạ lưu hệ thống sông Sài Gòn - Đồng Nai lên chậm, TP.HCM ngập nhiều nơi.
-- Chiều 13-1, ông Nguyễn Thanh Bình - người đàn ông múa kiếm đe dọa khi bị nhắc nhở vì hái hoa ở công viên - đã đến Công ty cổ phần Môi trường đô thị Nha Trang xin lỗi nữ nhân viên.
-- Ngày 13-1, Công an huyện Gò Dầu (tỉnh Tây Ninh) đã khởi tố vụ án, khởi tố bắt giam 4 người vì tội cướp tài sản. Những người này khai nhận quen biết nhau qua nhóm Facebook "hội những người vỡ nợ thích làm liều”.
-- Hoàn thiện quy định về tổ chức bộ máy, đẩy mạnh phân cấp, phân quyền phục vụ triển khai cuộc cách mạng về sắp xếp tổ chức bộ máy nhà nước.
-- Theo đề xuất của Bộ Nội vụ, tại quận, thành phố thuộc tỉnh; phường thuộc quận; phường, xã thuộc thành phố thuộc tỉnh, thành phố trực thuộc trung ương không tổ chức HĐND mà chỉ tổ chức UBND.
-- Theo phó giáo sư - tiến sĩ Nguyễn Hữu Huân, Trung tâm tài chính quốc tế tại TP.HCM nên cân nhắc chấp nhận cả tiền mã hóa như là Altcoins, Bitcoin... để tạo sự khác biệt với các nước trên thế giới.
-- Nghị định 168 quy định nhiều mức phạt với các hành vi vi phạm giao thông của người đi bộ, trong đó có hành vi không vẫy tay khi sang đường ở nơi không có luồng đường riêng.
-- Cùng với Tổng công ty Viễn thông MobiFone thì nhiều lĩnh vực quản lý vốn thuộc bộ ngành khác sẽ được chuyển về Bộ Công an quản lý.
-- Phó giám đốc Sở Giao thông vận tải Hà Nội khẳng định thành phố đã cho xe rẽ phải khi đèn đỏ từ trước đây.
-- Dự báo khoảng ngày 14-1, một đợt không khí lạnh tăng cường khiến thời tiết miền Bắc tiếp tục rét đậm, rét hại.
-- Ban Chấp hành Đảng bộ tỉnh Bắc Giang và Ban Tổ chức Trung ương vừa tổ chức hội nghị công bố quyết định của Ban Bí thư Trung ương Đảng về công tác cán bộ.
-- Để xảy ra 2 vụ án oan, nhiều lãnh đạo đã bị Ban Thường vụ Tỉnh ủy Đắk Nông ra quyết định thi hành kỷ luật.
-- Cảnh sát kinh tế Đà Nẵng vừa phá thành công chuyên án mua bán hóa đơn, chứng từ trái phép với tổng số tiền hơn 1.000 tỉ đồng.
-- Phó chủ tịch UBND TP.HCM chủ trì buổi họp về tình hình giao thông, công tác phục vụ Tết Nguyên đán ở các 'điểm nóng' giao thông ở TP.HCM.
-- Chủ xe tại Quảng Trị bị phạt 29 triệu vì giao ô tô cho người có giấy phép lái xe hết hạn. Tài xế này cũng bị phạt 16 triệu đồng vì lỗi trên, kèm lỗi có nồng độ cồn.
-- Phía trong khu xưởng bị cháy ở huyện Thanh Trì (Hà Nội) có nhiều vật liệu nguồn gốc từ nhựa, khiến cột khói đen bốc cao hàng trăm mét.
-- Sáng 13-1, Tổng Bí thư Tô Lâm đã dự và có bài phát biểu tại hội nghị toàn quốc về đột phá phát triển khoa học, công nghệ, đổi mới sáng tạo và chuyển đổi số quốc gia.
-- Đoàn cán bộ Bộ chỉ huy quân sự tỉnh Kiên Giang do đại tá Cao Minh Tâm - phó chính ủy Bộ chỉ huy quân sự tỉnh - vừa bàn giao 3 căn nhà đồng đội.
-- Vụ tai nạn chiếc xe tải lao vào tiệm tạp hóa khiến 6 người trong một nhà thiệt mạng đã làm bản làng nghèo nơi biên giới xứ Nghệ bao trùm tang thương.
-- Trong lúc đi bắt ốc tại vùng bán ngập thủy điện, hai đứa trẻ không may trượt chân vào hố sâu ở vùng đất bán ngập thủy điện Ialy và chết đuối.
-- Đó là ý kiến của nhiều chuyên gia giao thông về việc cho rẽ phải khi đèn đỏ ở các giao lộ trên địa bàn TP.HCM những ngày qua.
-- Các sản phẩm OCOP đặc trưng nông thôn ở Kiên Giang và túi gạo ST25 chinh phục khách hàng mua về làm quà biếu Tết cho người thân, bạn bè.
-- Ngày 13-1, nhiều khu vực tại tỉnh Bến Tre đã bị ngập sâu do triều cường dâng cao, ảnh hưởng đến đời sống của người dân.
-- Bé gái nặng 3,5kg bị bỏ rơi được một người dân đi đường phát hiện trong một bịch ni lông, còn nguyên dây rốn.
-- Sau khoảng 15 phút, lực lượng chức năng đã dập tắt đám cháy trong trụ sở UBND tỉnh Bình Phước do chập điện.
-- Chủ tịch UBND tỉnh Cà Mau chỉ đạo huyện Trần Văn Thời rà soát, xử lý trách nhiệm quản lý địa bàn nếu để người dân tự ý sản xuất lúa vụ 3.
-- Ông Bùi Đức Hinh, phó bí thư thường trực Tỉnh ủy Hòa Bình nhiệm kỳ 2020 - 2025, được phê chuẩn kết quả bầu làm chủ tịch tỉnh.
-- Có nhiều lộ trình để đi từ TP.HCM đến các tỉnh miền Bắc, Trung, Đông Nam Bộ và Tây Nguyên, Tây Nam Bộ dịp Tết Nguyên đán 2025.
-- Tổng Bí thư Tô Lâm nhấn mạnh yêu cầu triển khai các giải pháp đột phá thu hút các tập đoàn công nghệ hàng đầu, thu hút nhân tài tới làm việc.
-- Người đàn ông tại Quảng Bình bị đâm chết tại nhà. Người anh ruột chính là nghi phạm gây ra vụ việc.
-- Cơ quan chức năng đã kiểm tra nồng độ cồn, ma túy và điều kiện an toàn của phương tiện trong vụ tai nạn xe tải lao vào tiệm tạp hóa khiến 6 người chết.
-- Trong 10 năm qua, TP.HCM luôn nỗ lực chăm lo Tết cho người dân với mức khoảng 1.000 tỉ đồng/năm.
-- Hai anh em rủ nhau đi câu cá ở hồ nước gần nhà, không may cả hai đều bị chết đuối.
-- Công an TP.HCM có thông báo tìm người liên quan vụ án giết người xảy ra ngày 30-12-2007 tại ngã ba Trần Não và đường số 19, phường Bình An, quận 2.
-- Thủ tướng Phạm Minh Chính nêu rõ nghị quyết 57 có ý nghĩa đặc biệt quan trọng, là kim chỉ nam cho sự phát triển trong kỷ nguyên mới phát triển giàu mạnh.
-- Đó là thông tin trưởng Phòng Nội vụ quận 8 (TP.HCM) Trương Hoài Bảo nêu ra khi trao đổi với Tuổi Trẻ về phương án sắp xếp các nhân sự dôi dư sau khi sáp nhập các phường.
-- Vị trí phó bí thư Tỉnh ủy Bình Dương bị khuyết đã có người đảm nhiệm là ông Nguyễn Lộc Hà, theo quyết định chuẩn y của Ban Bí thư Trung ương Đảng.
-- Sáng 13-1, ô tô 4 chỗ mất lái tông hàng loạt xe máy trên đường Hoàng Văn Thụ, TP.HCM rồi lao vào một khuôn viên chung cư trên đường này.
-- 19 năm qua, chênh lệch giới tính khi sinh ở Việt Nam vẫn ở mức rất cao. Bình quân mỗi năm Việt Nam có gần 46.000 thai nhi gái không được chào đời.
-- TP.HCM vốn xe cộ đông đúc, cuối năm lại càng áp lực vì xe cộ đi lại tăng lên. Một trong những nguyên nhân là do xe máy không còn rẽ phải như trước nữa.
-- Tuyến metro số 1 ở TP.HCM gây ấn tượng với nhiều người bởi sự thuận tiện và ứng dụng những công nghệ mới, trong đó có hệ thống rửa tàu tự động, chỉ khoảng 15 phút cho một đoàn tàu.
-- Tỉnh Kiên Giang đã vận hành cống âu thuyền Vàm Bà Lịch để kiểm soát mặn đợt triều cường giữa tháng 1.
-- Lực lượng chữa cháy đang cố gắng dập đám cháy xảy ra tại kho vải nằm trên quốc lộ 1, phường Bình Trị Đông A, quận Bình Tân (TP.HCM).
-- Chủ bãi xe 39 làm trên đất lúa ở quận Bình Tân vừa bị chủ tịch UBND TP.HCM xử phạt và buộc nộp lại số lợi bất hợp pháp tổng cộng hơn 13,6 tỉ.
-- Xe hơi Mercedes băng qua đường rồi bất ngờ lao xuống biển ở TP Nha Trang, thời điểm xảy ra sự việc trên xe có 5 người.
-- Sáng 13-1, Tổng Bí thư Tô Lâm cùng nhiều lãnh đạo dự hội nghị toàn quốc về đột phá phát triển khoa học, công nghệ, đổi mới sáng tạo và chuyển đổi số quốc gia.
-- Va chạm xảy ra giữa ô tô tải và xe máy đi cùng chiều ở đường dẫn lên cầu Nhật Tân (Đông Anh, Hà Nội). Cú tông khiến xe máy biến dạng, 3 người tử vong.
-- Sáng 13-1, thời tiết Nam Bộ lạnh nhất từ đầu mùa, TP.HCM có nhiệt độ giảm xuống mức khoảng 19 độ C.
-- Người dân ở TP.HCM tất bật chuẩn bị hành trình về quê đón Tết. Những ngày qua, nhiều lực lượng đang dồn sức phục vụ bà con đi lại thuận tiện nhất có thể.
-- Chịu ảnh hưởng của không khí lạnh mạnh nhất từ đầu mùa, sáng sớm nay (13-1), nhiệt độ tại Hà Nội xuống 7,3 độ C, thấp nhất từ đầu mùa đông.
-- Một chiếc xe tải chở lá dong lao vào cửa hàng tạp hóa bên đường khiến 6 người chết ở huyện Kỳ Sơn, Nghệ An.
-- Cảnh sát giao thông sẽ rà soát tổng thể hệ thống đèn tín hiệu, từ đó kiến nghị thay thể, sửa chữa những cụm đèn hư hỏng. Mục tiêu là người dân đi lại được thông suốt; việc xử lý vi phạm chính xác, đúng hành vi.
-- Tin tức đáng chú ý: Bộ Tài chính nghiêm cấm biếu, tặng quà Tết cho lãnh đạo dưới mọi hình thức; Toàn quốc còn khoảng 240.000 căn nhà tạm, nhà dột nát, cần tập trung hỗ trợ năm 2025; Tân An là thành phố đầu tiên đạt chuẩn đô thị văn minh...
-- Hôm nay 13-1, nhiệt độ Bắc Bộ xuống rất thấp, thời tiết rét đậm rét hại. Miền Nam sáng sớm trời lạnh kèm gió, miền Trung mưa vài nơi.
-- Nhiều sở vẫn giữ nguyên tên gọi theo định hướng sắp xếp của Trung ương khi thực hiện sắp xếp, tinh gọn bộ máy.
-- Lực lượng của Phòng Cảnh sát giao thông Quảng Nam vừa phát hiện một vụ vận chuyển 16 xe mô tô và một ô tô không rõ nguồn gốc trên tuyến đường Hồ Chí Minh.
-- Nhân dịp Tết Ất Tỵ năm 2025, Phó bí thư Thành ủy, Chủ tịch MTTQ Việt Nam TP.HCM Nguyễn Phước Lộc đã đến thăm, chúc Tết người cao tuổi và trẻ mồ côi tại quận 3.
-- Thủ tướng phê bình Bộ Xây dựng, Bộ Tài chính và 9 tỉnh, thành phố chậm trễ ban hành văn bản hướng dẫn, kế hoạch hành động phục vụ công tác xóa nhà tạm, nhà dột nát.
-- Chợ quê Bến Nhứt có vị trí cặp sông Cái Bé (huyện Giồng Riềng, Kiên Giang) và mở bán ngày thứ bảy, chủ nhật của tuần.
-- Người đàn ông ở TP Long Xuyên, tỉnh An Giang lười lao động nên đã đi cướp vé số của người già rồi đem bán lấy tiền tiêu xài.
-- Một phiên chợ đặc biệt dành cho người nghèo ở vùng biên giới Nậm Pồ (Điện Biên) có đủ mặt hàng thiết yếu cho bà con sắm Tết không mất tiền.
-- Nhiều người cho biết việc bắt xe Grab tại TP.HCM gặp nhiều khó khăn những ngày qua, nhiều thời điểm không thể đặt xe.
-- Theo Cục Cảnh sát giao thông, nghị định 168 có hiệu lực phù hợp với quy định của Luật Ban hành văn bản quy phạm pháp luật.
 ![New](News.png)
 ## Nhịp sống số 
+- Ngày 6-2, Nhật Bản trở thành quốc gia mới nhất kêu gọi các quan chức chính phủ cẩn trọng khi sử dụng DeepSeek của Trung Quốc.
+- Nhà khoa học máy tính hàng đầu Yoshua Bengio cảnh báo nếu mất kiểm soát với AI, 'loài người có thể biến mất trong 10 năm'.
+- Mã độc này đã hoạt động trên các kho ứng dụng App Store và Google Play ít nhất từ tháng 3-2024, chủ yếu nhắm vào người dùng ở UAE và các quốc gia ở châu Âu và châu Á.
+- Ngày 4-2, Ủy ban châu Âu công bố văn bản hướng dẫn thực hiện những quy định trong Đạo luật Trí tuệ nhân tạo (AI), có hiệu lực từ ngày 2-2, nhận về nhiều phản ứng trái chiều.
 - Nhờ kết hợp nhiều công nghệ hiện đại, robot 'Thần Tài' của Trung Quốc có thể giao tiếp và biểu cảm giống y người thật.
 - Một chương trình độc hại được cho là ‘chưa từng thấy’ có thể tấn công đánh cắp dữ liệu từ hình ảnh trên điện thoại iPhone, đang lây nhiễm qua 20 ứng dụng giả mạo.
 - OpenAI khẳng định với công cụ Deep Research mới nhất, ChatGPT có thể 'hoàn thành trong vài chục phút những việc mà con người phải mất đến nhiều giờ'.
@@ -3000,8 +3004,4 @@
 - TTO - Trang web MyHeritage chuyên cung cấp dịch vụ xét nghiệm DNA cho biết địa chỉ email và mật khẩu của hơn 92 triệu tài khoản khách hàng của họ đã bị tin tặc tấn công.
 - TTO - Brave và Via là hai trình duyệt được tạp chí công nghệ Đức Connect đánh giá là giúp cải thiện tốc độ và tăng tính bảo mật hơn cả việc sử dụng các trình duyệt được cài đặt sẵn.
 - TTO - Virus nguy hiểm W32.XFileUSB đã lây nhiễm 1,2 triệu máy tính tại Việt Nam. Virus này có khả năng xóa toàn bộ dữ liệu trên USB của nạn nhân. Đây là nội dung cảnh báo vừa được tập đoàn Bkav phát đi.
-- TTO - Samsung SDS, một chi nhánh của tập đoàn Samsung, thông báo triển khai nền tảng tài chính kỹ thuật số mới ứng dụng công nghệ trí tuệ nhân tạo (AI) và blockchain.
-- TTO - Các nhà nghiên cứu đã phát hiện ra lỗ hổng Windows mới cho phép kẻ tấn công từ xa thực thi mã tùy ý và Microsoft hiện vẫn chưa tung ra một bản vá lỗi phần mềm nào.
-- TTO - Apple vừa chính thức ra mắt HĐH iOS phiên bản mới nhất tại hội nghị các nhà phát triển phần mềm thường niên (WWDC), và sau đây là những điểm mới đáng chú ý nhất về iOS 12.
-- TTO - Nhà sản xuất iPhone vừa công bố những chính sách riêng tư mới khiến các đối thủ như Google và Facebook khó theo dõi hoạt động của người dùng hơn trên các thiết bị của Apple.
 ![life](Life.png)
